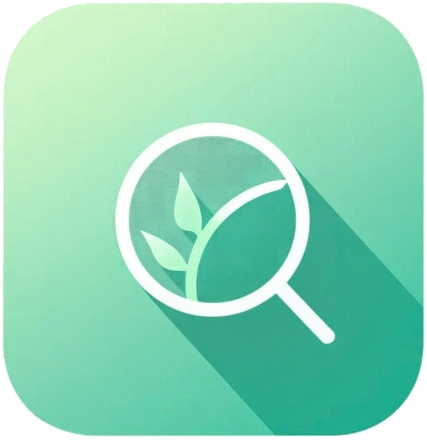
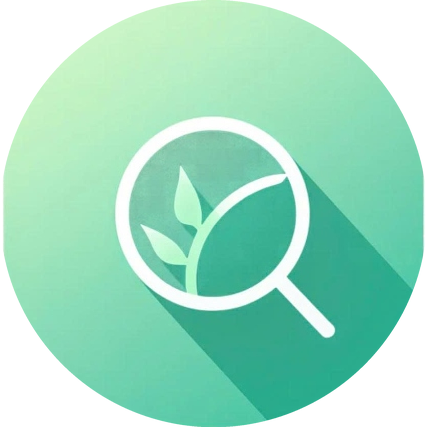
style: change chatbot launcher button to a perfect circle and decrease size by 20%

diff --git a/src/components/ChatbotWidget.jsx b/src/components/ChatbotWidget.jsx
@@ -80,12 +80,12 @@ export default function ChatbotWidget() {
         <button
           onClick={() => setIsOpen(true)}
           aria-label="Open FarmBot AI Assistant"
-          className="fixed bottom-6 right-6 z-40 w-14 h-14 rounded-2xl shadow-2xl shadow-emerald-700/40 hover:scale-110 active:scale-95 transition-all flex items-center justify-center cursor-pointer focus:outline-none focus:ring-4 focus:ring-emerald-400 group"
+          className="fixed bottom-6 right-6 z-40 w-11 h-11 rounded-full shadow-xl shadow-emerald-700/40 hover:scale-110 active:scale-95 transition-all flex items-center justify-center cursor-pointer focus:outline-none focus:ring-4 focus:ring-emerald-400 group overflow-hidden"
         >
           <img 
             src="/chatbot-avatar.png" 
             alt="FarmBot AI" 
-            className="w-full h-full object-contain filter drop-shadow-md group-hover:scale-105 transition-transform"
+            className="w-full h-full object-cover rounded-full filter drop-shadow-md group-hover:scale-105 transition-transform"
           />
         </button>
       )}
@@ -96,11 +96,11 @@ export default function ChatbotWidget() {
           {/* Header */}
           <div className="p-4 bg-gradient-to-r from-emerald-600 to-green-600 text-white flex items-center justify-between">
             <div className="flex items-center gap-2.5">
-              <div className="w-10 h-10 rounded-xl overflow-hidden shrink-0 flex items-center justify-center filter drop-shadow-xs">
+              <div className="w-9 h-9 rounded-full overflow-hidden shrink-0 flex items-center justify-center filter drop-shadow-xs">
                 <img 
                   src="/chatbot-avatar.png" 
                   alt="FarmBot AI" 
-                  className="w-full h-full object-contain"
+                  className="w-full h-full object-cover rounded-full"
                 />
               </div>
               <div>
@@ -145,11 +145,11 @@ export default function ChatbotWidget() {
                 className={`flex gap-2.5 ${m.sender === 'user' ? 'justify-end' : 'justify-start'}`}
               >
                 {m.sender === 'bot' && (
-                  <div className="w-8 h-8 rounded-xl overflow-hidden shrink-0 flex items-center justify-center filter drop-shadow-xs">
+                  <div className="w-7 h-7 rounded-full overflow-hidden shrink-0 flex items-center justify-center filter drop-shadow-xs">
                     <img
                       src="/chatbot-avatar.png"
                       alt="FarmBot AI"
-                      className="w-full h-full object-contain"
+                      className="w-full h-full object-cover rounded-full"
                     />
                   </div>
                 )}
